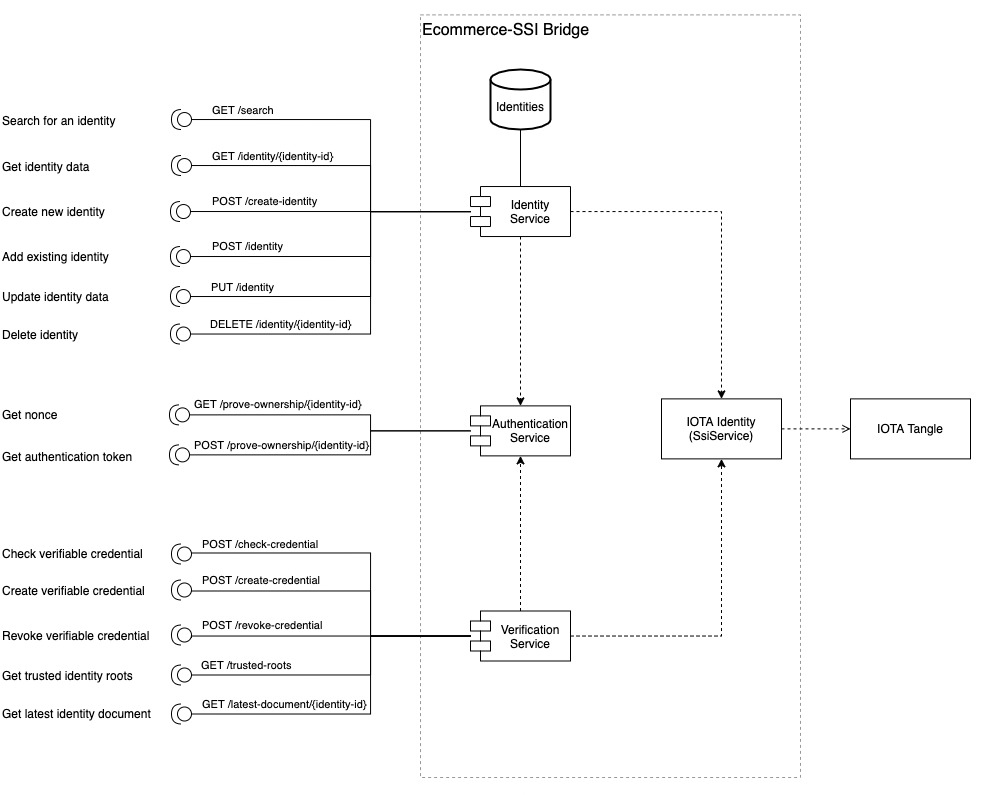
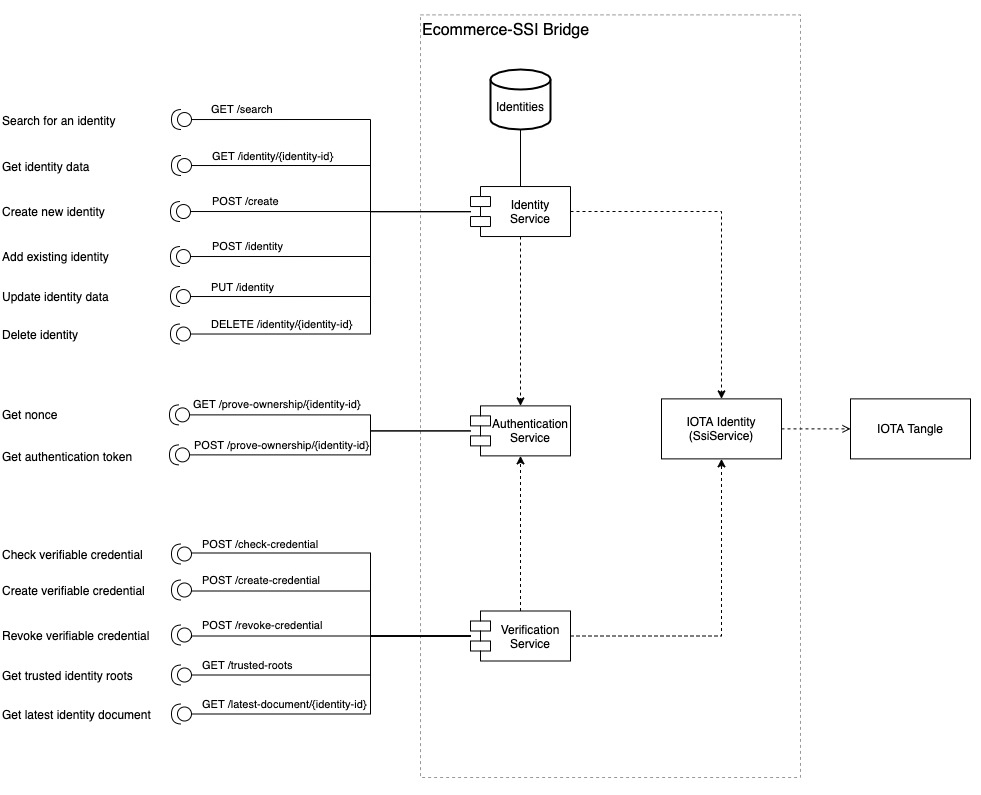
small route adjustment and add further documentation

diff --git a/api/src/routes/router.ts b/api/src/routes/router.ts
@@ -43,7 +43,7 @@ export const identityRouter = Router();
 const authMiddleWare = isAuth(serverSecret);
 const apiKeyMiddleware = hasValidApiKey(apiKey);
 
-identityRouter.post('/create-identity', apiKeyMiddleware, validate({ body: UserWithoutIdSchema }), createIdentity);
+identityRouter.post('/create', apiKeyMiddleware, validate({ body: UserWithoutIdSchema }), createIdentity);
 identityRouter.get('/search', apiKeyMiddleware, authMiddleWare, searchUsers);
 identityRouter.get('/identity/:identityId', apiKeyMiddleware, getUser);
 identityRouter.post('/identity', apiKeyMiddleware, validate({ body: UserSchema }), addUser);
@@ -55,8 +55,8 @@ const channelInfoRoutes = new ChannelInfoRoutes(channelInfoService, authorizatio
 const { getChannelInfo, addChannelInfo, updateChannelInfo, deleteChannelInfo, searchChannelInfo } = channelInfoRoutes;
 export const channelInfoRouter = Router();
 
-channelInfoRouter.get('/channel/:channelAddress', apiKeyMiddleware, getChannelInfo);
 channelInfoRouter.get('/search', apiKeyMiddleware, authMiddleWare, searchChannelInfo);
+channelInfoRouter.get('/channel/:channelAddress', apiKeyMiddleware, getChannelInfo);
 channelInfoRouter.post('/channel', apiKeyMiddleware, authMiddleWare, validate({ body: ChannelInfoSchema }), addChannelInfo);
 channelInfoRouter.put('/channel', apiKeyMiddleware, authMiddleWare, validate({ body: ChannelInfoSchema }), updateChannelInfo);
 channelInfoRouter.delete('/channel/:channelAddress', apiKeyMiddleware, authMiddleWare, deleteChannelInfo);

diff --git a/api/src/index.ts b/api/src/index.ts
@@ -30,7 +30,7 @@ async function startServer() {
 
 	const prefix = `/api/${version}`;
 	useRouter(app, prefix + '/channel-info', channelInfoRouter);
-	useRouter(app, prefix + '/channel', channelRouter);
+	useRouter(app, prefix + '/channels', channelRouter);
 	useRouter(app, prefix + '/subscriptions', subscriptionRouter);
 	useRouter(app, prefix + '/identities', identityRouter);
 	useRouter(app, prefix + '/authentication', authenticationRouter);

diff --git a/api/src/test/mocks/identities.ts b/api/src/test/mocks/identities.ts
@@ -55,7 +55,7 @@ export const TestUsersMock = [
 	}
 ];
 
-// returned from localhost:3000/api/v1/authentication/create-identity
+// returned from localhost:3000/api/v1/identities/create
 export const UserIdentityMock: IdentityJsonUpdate & { userData: User } = {
 	doc: {
 		id: 'did:iota:Ced3EL4XN7mLy5ACPdrNsR8HZib2MXKUQuAMQYEMbcb4',

diff --git a/clients/src/config/index.ts b/clients/src/config/index.ts
@@ -2,7 +2,7 @@ export const Config = {
 	baseUrl: process.env.BASE_URL
 };
 
-// returned from localhost:3000/api/v1/authentication/create-identity
+// returned from localhost:3000/api/v1/identities/create
 export const UserIdentity = {
 	doc: {
 		id: 'did:iota:AF1ss8QmCM9feWEERRBjZH72Hpg6eUvVK9jHpwz3sgcc',

diff --git a/api/usage-audit-trail-bridge.md b/api/usage-audit-trail-bridge.md
@@ -2,6 +2,8 @@
 
 The Ecommerce-Audit Trail Bridge allows users to create immutable data channels and share them with others. By requesting a subscription to a channel a so called subscriber can request `Read`, `Write`, `ReadAndWrite` access to the channel. This request must then be authorized by the creator (author) of the channel. After a subscriber is authorized, he is then able to write/read to/from the channel. 
 
+> __Important:__ The audit trail bridge currently has a dependency to the [ssi bridge](./usage-ssi-bridge.md), since the audit trail needs an authentication mechanism when storing, editing and requesting info of a channel from the database. (This might will change with the progress of the project.) __This means, everyone interacting with the audit trail needs to create its own identity before.__
+
 ## Ecommerce-Audit Trail Bridge APIs Definition
 
 The list of provided APIs is shown in figure below. Endpoints which are currently not available are marked in grey.
@@ -11,7 +13,7 @@ The list of provided APIs is shown in figure below. Endpoints which are currentl
 ![ecommerce-audit-trail-bridge](./src/assets/diagrams/ecommerce-audit-trail-bridge.jpeg)
 
 ### Channel Service 
-__Prefix:__ `/api/v1/channel`
+__Prefix:__ `/api/v1/channels`
 
 `POST /create`
 
@@ -236,7 +238,7 @@ _Body:_
 
 ```
 {
-    "userId": string
+    "identityId": string
 }
 ```
 
@@ -251,4 +253,6 @@ _Response:_
 
 __TBD!__ _Remove subscription to a channel. The author or subscriber of a channel can remove a subscription from a channel. (A subscriber can only remove its own subscription)_
 
+
+## HowTo: Create a channel and add a subscriber
 

diff --git a/api/usage-ssi-bridge.md b/api/usage-ssi-bridge.md
@@ -148,7 +148,7 @@ _Response:_
 }
 ```
 
-`POST /create-identity`
+`POST /create`
 
 Create a new decentralized digital identity (DID). It will be signed and published to the Tangle! A digital identity can represent a device, person or even an organization. It is recommended to securely (encrypt) store the privateAuthKey locally, since it won’t be stored on the API side.
 
@@ -500,7 +500,7 @@ Currently the Ecommerce-SSI Bridge supports five data models: `Device`, `Person`
 
 The following snippet demonstrates an example where an identity of a device will be created by a previously registered organization. Since schema.org does not have a data model for devices, the device data model of FIWARE was used.
 
-https://ensuresec.solutions.iota.org/api/v0.1/identities/create-identity
+https://ensuresec.solutions.iota.org/api/v0.1/identities/create
 
 The body of the POST request contains the Device type, an organization id, username and a data field which contains detailed information about the device.
 
